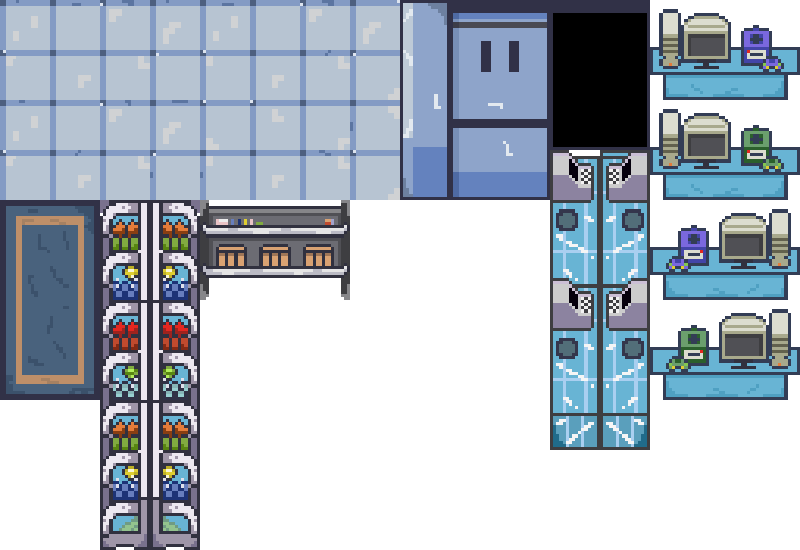
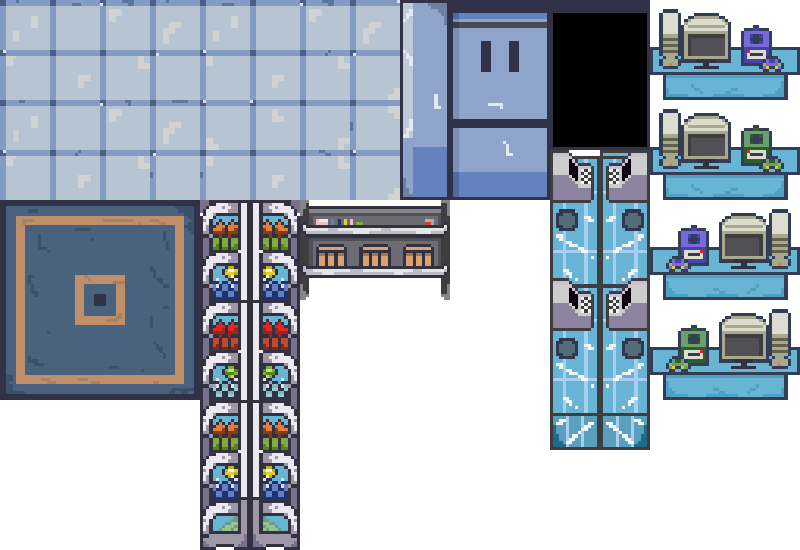
first working version of advanced movement

Changed region(s): [[0.0938, 0.34, 0.5625, 1.0], [0.0, 0.4327, 0.0312, 0.68]]

diff --git a/core/assets/map/Tileset.tsx b/core/assets/map/Tileset.tsx
@@ -1,4 +1,4 @@
 <?xml version="1.0" encoding="UTF-8"?>
-<tileset version="1.5" tiledversion="1.5.0" name="Tileset" tilewidth="50" tileheight="50" tilecount="256" columns="16">
- <image source="Tiles.png" width="800" height="800"/>
+<tileset version="1.5" tiledversion="1.5.0" name="Tileset" tilewidth="50" tileheight="50" tilecount="176" columns="16">
+ <image source="Tiles.png" width="800" height="550"/>
 </tileset>

diff --git a/core/src/com/tower/defense/wave/Wave.java b/core/src/com/tower/defense/wave/Wave.java
@@ -1,12 +1,14 @@
 package com.tower.defense.wave;
 
 import com.badlogic.gdx.Gdx;
+import com.badlogic.gdx.math.Vector2;
 import com.badlogic.gdx.utils.Array;
 import com.badlogic.gdx.utils.TimeUtils;
 import com.tower.defense.enemy.IEnemy;
 import com.tower.defense.player.Player;
 import com.tower.defense.screen.GameScreen;
 
+import java.util.ArrayList;
 import java.util.Iterator;
 
 import static com.tower.defense.enemy.Factory.EnemyFactory.getEnemyInstance;
@@ -27,11 +29,10 @@ public class Wave {
     // if its high it takes longer to spawn a new enemy
     private long waveSpeed = 2000000000L;
     private int waveReward = 30;
-    private int enemySpeed = 25;
+    private int enemySpeed = 50;
     private long timeSinceBreak;
     private boolean pausing = false;
     private final long breaktime = 10000L;
-
 
     public Wave() {
         waveLeft = new Array<IEnemy>();
@@ -46,8 +47,8 @@ public class Wave {
                     endOfWave();
                 }
             } else {
-                IEnemy enemyLeft = getEnemyInstance("easy", 522, 650);
-                IEnemy enemyRight = getEnemyInstance("easy", 1022, 650);
+                IEnemy enemyLeft = getEnemyInstance("easy", 522, 700);
+                IEnemy enemyRight = getEnemyInstance("easy", 1022, 700);
                 waveLeft.add(enemyLeft);
                 waveRight.add(enemyRight);
                 lastSpawnTime = TimeUtils.nanoTime();
@@ -68,11 +69,53 @@ public class Wave {
         }
     }
 
-    public void renderWave(boolean playerSide, Array<IEnemy> wave, Player player) {
+    public void renderWave(boolean playerSide, Array<IEnemy> wave, Player player,ArrayList<String> wavePattern) {
         for (Iterator<IEnemy> iter = wave.iterator(); iter.hasNext(); ) {
             IEnemy enemy = iter.next();
-            int newYLocation = (int) (enemy.getY() - enemySpeed * Gdx.graphics.getDeltaTime());
-            enemy.setY(newYLocation);
+            if(player.getName() == "Tester"){
+            if(enemy.getY() >= 525){
+                int newYLocation = (int) (enemy.getY() - enemySpeed / 15);
+                enemy.setY(newYLocation);}
+
+            else if(enemy.getX() >= 325 && enemy.getY() > 400){
+            int newXLocation = (int) (enemy.getX() - enemySpeed / 15);
+            enemy.setX(newXLocation);
+            }
+            else if(enemy.getY() >= 225){
+                int newYLocation = (int) (enemy.getY() - enemySpeed / 15);
+                enemy.setY(newYLocation);
+            }
+            else if(enemy.getX() <= 425){
+                int newXLocation = (int) (enemy.getX() + enemySpeed / 15);
+                enemy.setX(newXLocation);
+            }
+            else{
+                int newYLocation = (int) (enemy.getY() - enemySpeed / 15);
+                enemy.setY(newYLocation);
+            }
+                }
+
+              else if(player.getName()  == "Tester2"){
+                    if(enemy.getY() >= 525){
+                        int newYLocation = (int) (enemy.getY() - enemySpeed / 15);
+                        enemy.setY(newYLocation);
+                    }
+                    else if(enemy.getX() < 1225  && enemy.getY() > 400){
+                    enemy.setX((int) (enemy.getX() + enemySpeed / 15));
+                    }
+                    else if(enemy.getY() >= 225){
+                        int newYLocation = (int) (enemy.getY() - enemySpeed / 15);
+                        enemy.setY(newYLocation);
+                        }
+                    else if(enemy.getX() >= 1125){
+                            int newXLocation = (int) (enemy.getX() - enemySpeed / 15);
+                            enemy.setX(newXLocation);
+                        }
+                    else{
+                            int newYLocation = (int) (enemy.getY() - enemySpeed / 15);
+                            enemy.setY(newYLocation);
+                        }   
+                        }
             if (enemy.getY() < 20) {
                 player.reduceLifepoints(enemy.getDamage());
                 iter.remove();
@@ -106,4 +149,41 @@ public class Wave {
     public int getWaveCount() {
         return waveCount;
     }
+
+    public void doNextStep(Player player, ArrayList<String> wavePattern, IEnemy enemy){
+        int stepAmount = wavePattern.size();
+        for(int currentStepPosition = 0; currentStepPosition < stepAmount; currentStepPosition++){
+            String currentStep = wavePattern.get(currentStepPosition);
+            
+        if(player.getName() == "Tester"){
+            if(enemy.getY() >= 525){
+                int newYLocation = (int) (enemy.getY() - enemySpeed * Gdx.graphics.getDeltaTime());
+                enemy.setY(newYLocation);}
+
+            else if(enemy.getX() >= 325){
+            int newXLocation = (int) (enemy.getX() - enemySpeed * Gdx.graphics.getDeltaTime());
+            enemy.setX(newXLocation);
+            }
+            else if(enemy.getY() >= 225){
+                int newYLocation = (int) (enemy.getY() - enemySpeed * Gdx.graphics.getDeltaTime());
+                enemy.setY(newYLocation);
+                }
+                }
+
+              else if(player.getName()  == "Tester2"){
+                    if(enemy.getY() >= 525){
+                        int newYLocation = (int) (enemy.getY() - enemySpeed / 15);
+                        enemy.setY(newYLocation);
+                    }
+                    else if(enemy.getX() < 1225){
+                    enemy.setX((int) (enemy.getX() + enemySpeed / 15));
+                    }
+                    else if(enemy.getY() >= 225){
+                        int newYLocation = (int) (enemy.getY() - enemySpeed / 15);
+                        enemy.setY(newYLocation);
+                        }
+                        
+                    }
+    }
+}
 }

diff --git a/core/src/com/tower/defense/screen/GameScreen.java b/core/src/com/tower/defense/screen/GameScreen.java
@@ -26,6 +26,9 @@ import com.tower.defense.wave.Wave;
 import static com.tower.defense.wave.Wave.waveLeft;
 import static com.tower.defense.wave.Wave.waveRight;
 
+import java.util.ArrayList;
+import java.util.Arrays;
+
 public class GameScreen implements Screen {
 
     private final TowerDefense game;
@@ -49,8 +52,6 @@ public class GameScreen implements Screen {
     private Texture hoveredTileNotAllowed;
 
     private Texture enemyImage;
-    private Texture towerImage;
-    //private Texture turret;
 
     private boolean playerSide;
 
@@ -62,6 +63,7 @@ public class GameScreen implements Screen {
     private Wave wave;
     public static Player player1;
     public static Player player2;
+    private ArrayList<String> wavePattern;
 
     public GameScreen(TowerDefense game) {
         this.game = game;
@@ -80,9 +82,6 @@ public class GameScreen implements Screen {
         hoveredTileNotAllowed = new Texture(Gdx.files.internal("hovered_tile_not_allowed.png"));
 
         enemyImage = new Texture(Gdx.files.internal("virus.png"));
-        towerImage = new Texture(Gdx.files.internal("drop.png"));
-        //temporary
-        //turret = new Texture(Gdx.files.internal("turret.png"));
 
         //getting the layers of the map
         MapLayers mapLayers = map.getLayers();
@@ -119,6 +118,7 @@ public class GameScreen implements Screen {
         //for testing
         //player2.reduceLifepoints(40);
         wave = new Wave();
+        wavePattern = new ArrayList<String>(Arrays.asList("DOWN","LEFT","DOWN"));
     }
 
     @Override
@@ -198,21 +198,14 @@ public class GameScreen implements Screen {
         // WAVE:
         // move the enemy, remove any that are beneath the bottom edge of
         // the screen or that have no more LP.
-        wave.renderWave(true, waveLeft, player1);
-        wave.renderWave(false, waveRight, player2);
+        wave.renderWave(true, waveLeft, player1, wavePattern);
+        wave.renderWave(false, waveRight, player2, wavePattern);
         //END OF GAME
         if (player1.getLifepoints() <= 0 || player2.getLifepoints() <= 0) {
             game.setScreen(new EndScreen(game));
         }
         stage.getViewport().apply();
         stage.draw();
-
-        //temporary left click method to show the turret
-        /*if(Gdx.input.isButtonPressed(Buttons.LEFT)){
-            spriteBatch.begin();
-            spriteBatch.draw(turret, hoveredTilePosition.x * 50, hoveredTilePosition.y * 50);
-            spriteBatch.end();
-        } */
 
     }
 

diff --git a/core/src/com/tower/defense/enemy/Factory/Enemy1.java b/core/src/com/tower/defense/enemy/Factory/Enemy1.java
@@ -1,5 +1,6 @@
 package com.tower.defense.enemy.Factory;
 
+import com.badlogic.gdx.math.Vector2;
 import com.tower.defense.enemy.IEnemy;
 
 /**
@@ -32,6 +33,13 @@ public class Enemy1 implements IEnemy {
     }
 
     /**
+     * @return current location
+     */
+    public Vector2 getPosition(){
+        return new Vector2(getX(),getY());
+    }
+
+    /**
      * @return
      */
     public int getDamage() {
@@ -46,6 +54,18 @@ public class Enemy1 implements IEnemy {
     }
 
     /**
+     * @param posX
+     */
+    public void setX(int posX) {
+        this.posX = posX;
+    }
+
+    public void setPosition(Vector2 newPos){
+        this.posX = (int)newPos.x;
+        this.posY = (int)newPos.y;
+    }
+
+    /**
      * @param damageReceived The damaged dealt by towers is subtracted from the remaining LP here
      */
     public void setLifepoints(int damageReceived) {
@@ -55,4 +75,5 @@ public class Enemy1 implements IEnemy {
     public int getLifepoints() {
         return lifepoints;
     }
+
 }

diff --git a/core/src/com/tower/defense/enemy/Factory/Enemy2.java b/core/src/com/tower/defense/enemy/Factory/Enemy2.java
@@ -1,5 +1,6 @@
 package com.tower.defense.enemy.Factory;
 
+import com.badlogic.gdx.math.Vector2;
 import com.tower.defense.enemy.IEnemy;
 
 public class Enemy2 implements IEnemy {
@@ -23,12 +24,25 @@ public class Enemy2 implements IEnemy {
         return posX;
     }
 
+    public Vector2 getPosition(){
+        return new Vector2(getX(),getY());
+    }
+
     public int getDamage() {
         return damage;
     }
 
     public void setY(int posY) {
         this.posY = posY;
+    }
+
+    public void setX(int posX) {
+        this.posX = posX;
+    }
+
+    public void setPosition(Vector2 newPos){
+        this.posX = (int)newPos.x;
+        this.posY = (int)newPos.y;
     }
 
     public void setLifepoints(int damageReceived) {

diff --git a/core/src/com/tower/defense/enemy/IEnemy.java b/core/src/com/tower/defense/enemy/IEnemy.java
@@ -1,15 +1,23 @@
 package com.tower.defense.enemy;
 
+import com.badlogic.gdx.math.Vector2;
+
 public interface IEnemy {
     int getY();
 
     int getX();
+
+    Vector2 getPosition();
+
+    void setPosition(Vector2 newPos);
 
     int getDamage();
 
     int getLifepoints();
 
     void setY(int y);
+
+    void setX(int x);
 
     void setLifepoints(int damageReceived);
 
